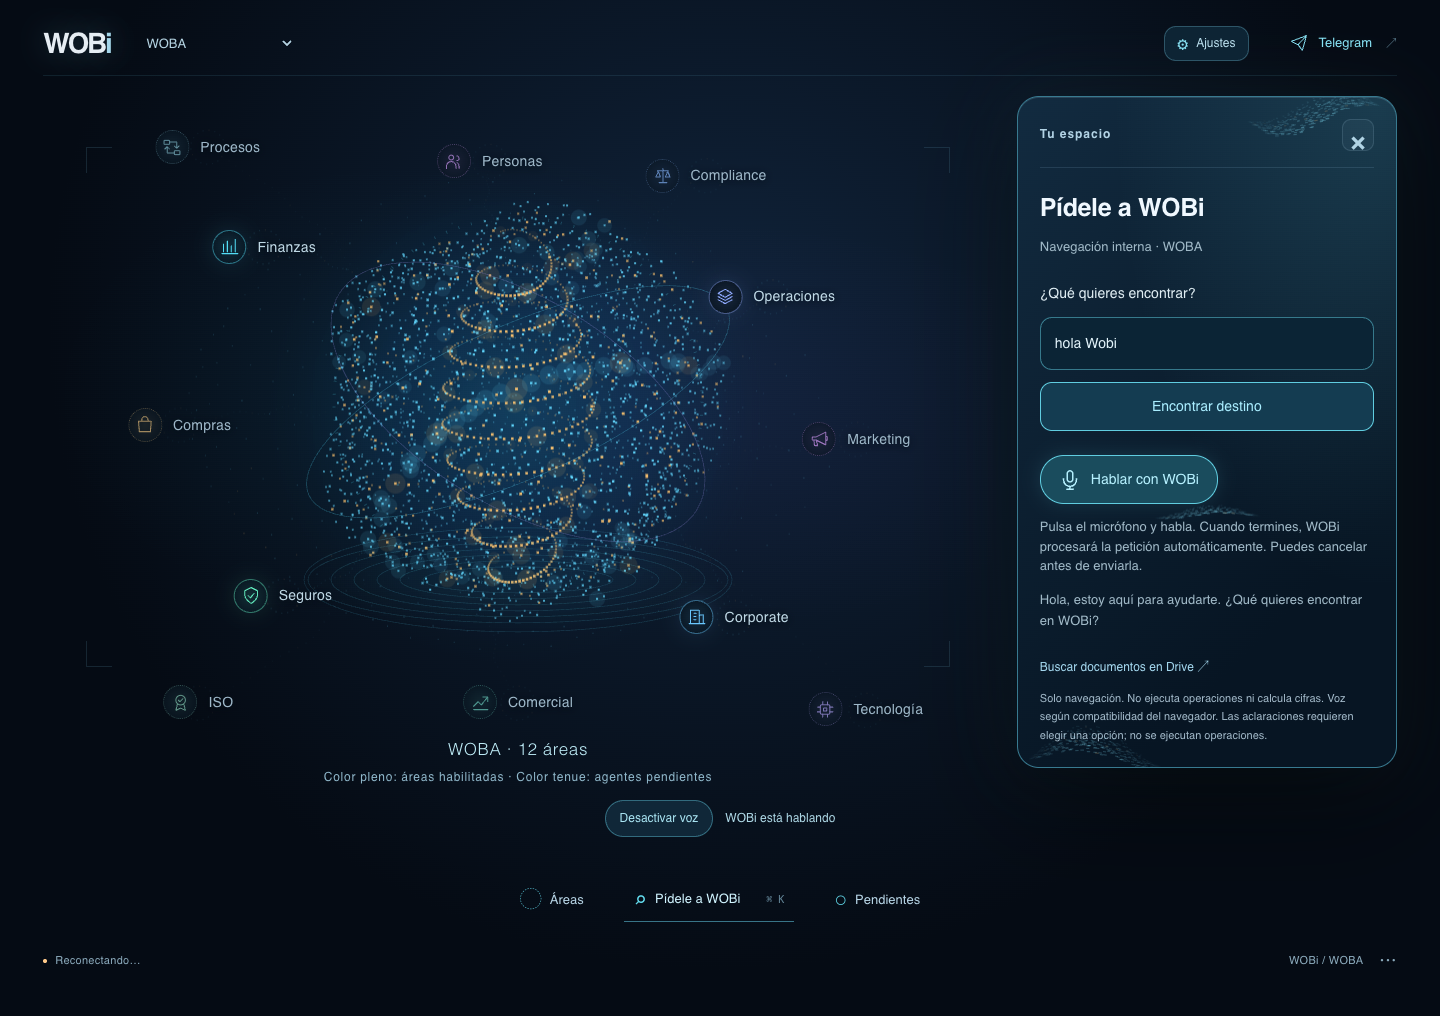
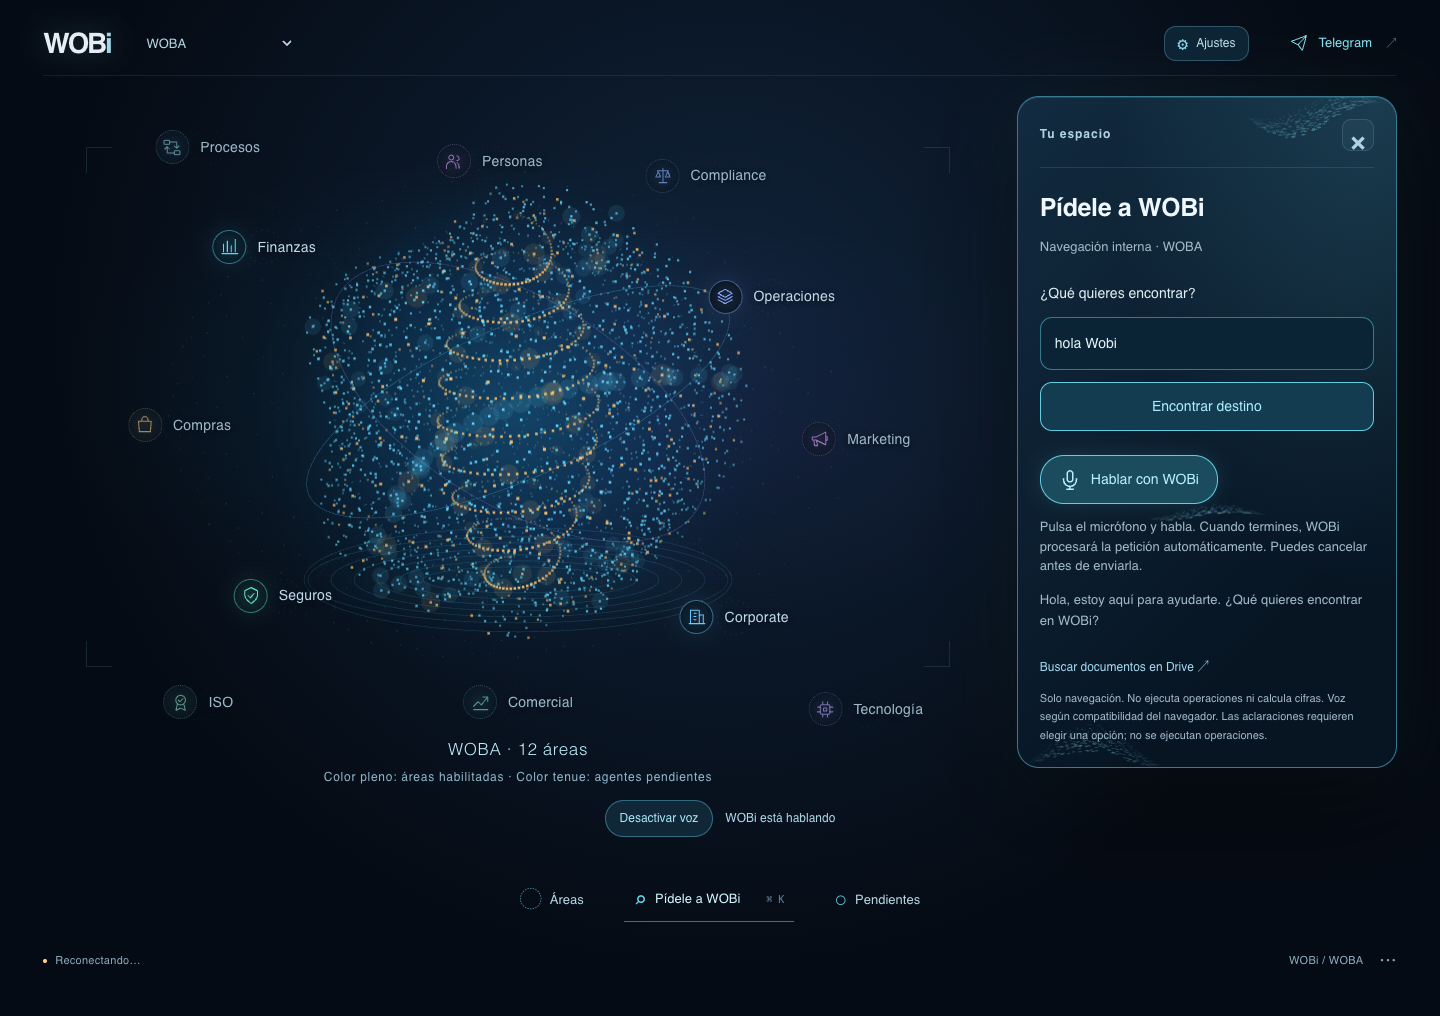
docs: valida voz sobre main actual

Changed region(s): [[0.2188, 0.1831, 0.5312, 0.6102], [0.9062, 0.0915, 0.9375, 0.122]]

diff --git a/docs/trabajo-en-curso.md b/docs/trabajo-en-curso.md
@@ -135,4 +135,4 @@ que describían un estado que ya no existía. Pedido de Carlos: crecer de manera
 
 | Trabajo | Rama | Área | Responsable | Estado |
 |---|---|---|---|---|
-| Saludos con el nombre al final y envío automático al terminar de hablar | `codex/voz-interaccion-fluida` | Front / navegador | Codex | Implementado desde main; npm test (2124 backend, 79 adicionales, cero fallos), tipos y build verdes. Chrome con router real y reconocimiento simulado: saludo y destino automáticos, cancelación, permiso de micrófono, rechazo de Finanzas, audio/enjambre, movimiento reducido y móvil correctos. Pendiente CI y despliegue. Interpretación abierta con modelo requiere contrato de Claude. |
+| Saludos con el nombre al final y envío automático al terminar de hablar | `codex/voz-interaccion-fluida` | Front / navegador | Codex | Implementado desde main; npm test (2128 backend, 79 adicionales, cero fallos), tipos y build verdes. Chrome con router real y reconocimiento simulado: saludo y destino automáticos, cancelación, permiso de micrófono, rechazo de Finanzas, audio/enjambre, movimiento reducido y móvil correctos. PR #442; main integrado con #441 y verificación de expansión del dibujo durante audio (+9,5% en la prueba). Pendiente CI y despliegue. Interpretación abierta con modelo requiere contrato de Claude. |
